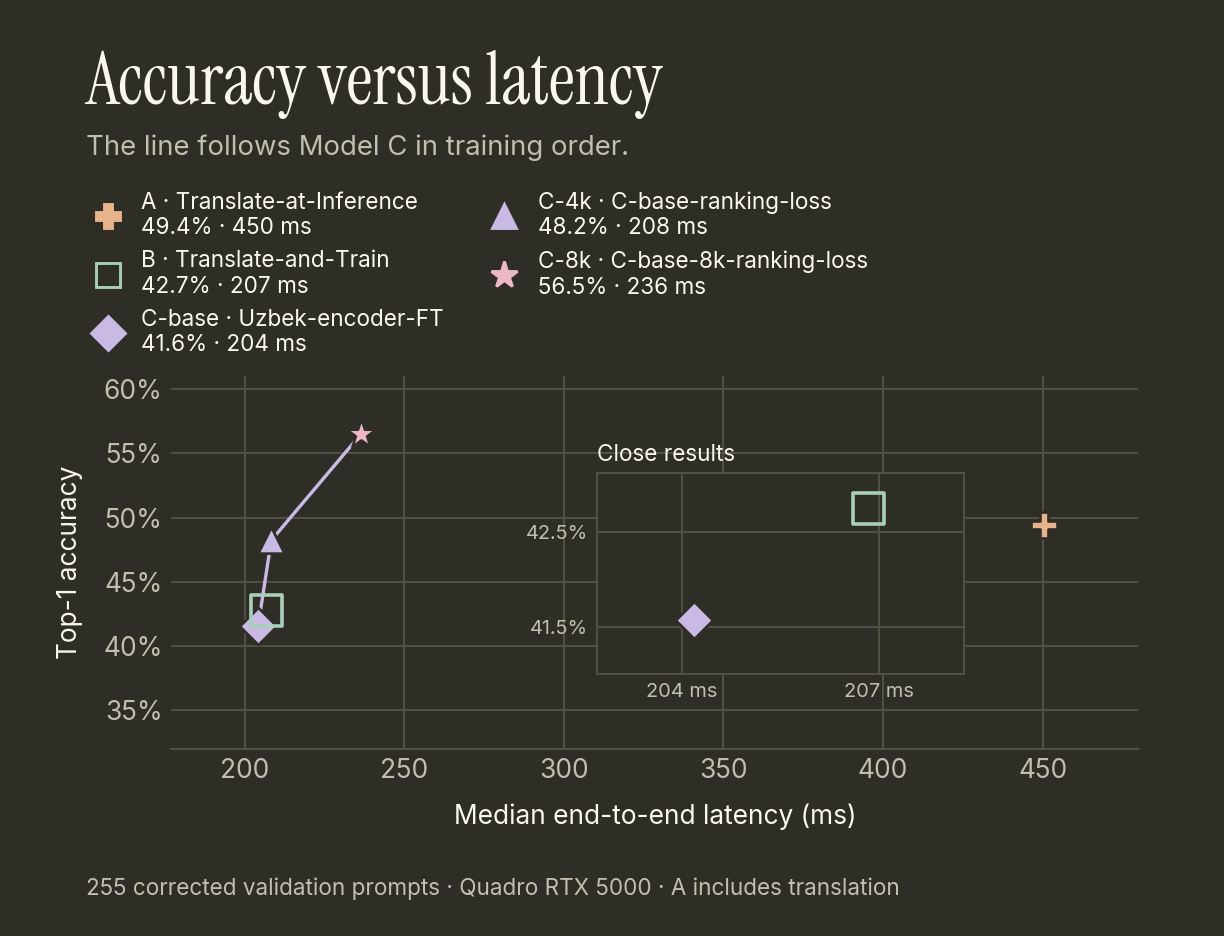
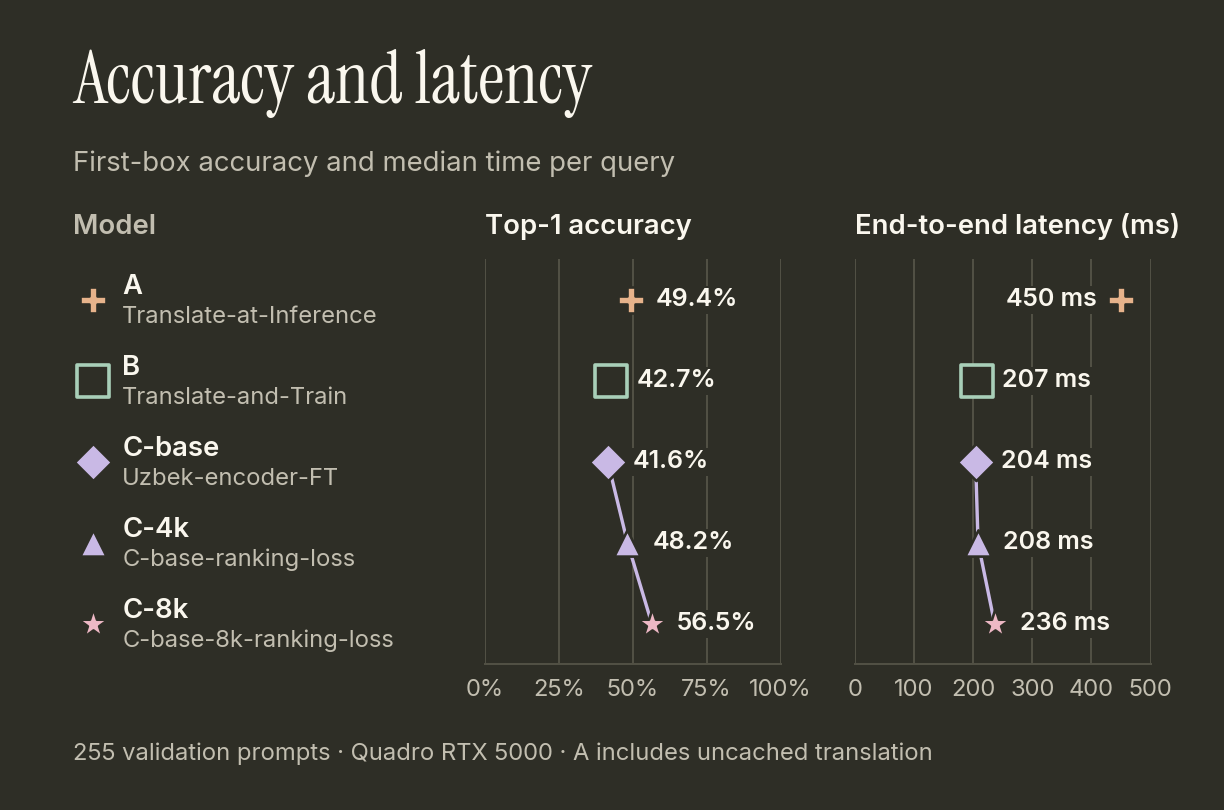
upd

diff --git a/frontend/src/ReportsPanel.vue b/frontend/src/ReportsPanel.vue
@@ -23,8 +23,8 @@ const panel = ref(null)
         <p>UzBEye compares inference-time translation with direct Uzbek grounding. All runs use
           the same 255 corrected Uzbek validation prompts for this comparison.</p>
         <figure>
-          <img :src="accuracyLatency" width="1224" height="936"
-               alt="Accuracy versus median latency. A thin line connects C-base, C-4k, and C-8k. An inset separates B and C-base near 205 milliseconds. C-8k scores 56.5% at 236 milliseconds.">
+          <img :src="accuracyLatency" width="1224" height="810"
+               alt="Top-1 accuracy and median latency on aligned model rows. C-8k has the highest accuracy at 56.5% and takes 236 milliseconds per query.">
           <figcaption>Top-1 accuracy counts a match when the first box overlaps the target with IoU ≥ 0.5.
             Latency was measured on a Quadro RTX 5000 and includes uncached translation for A.</figcaption>
         </figure>
@@ -48,8 +48,8 @@ const panel = ref(null)
           C-8k reached 56.5% top-1 and 64.7% top-5
           with more training data and optimizer updates.</p>
         <figure>
-          <img :src="boxRankBreakdown" width="1224" height="990" loading="lazy"
-               alt="C-8k ranked the matching box first on 144 prompts and in the top five on 165 prompts.">
+          <img :src="boxRankBreakdown" width="1224" height="810" loading="lazy"
+               alt="Prompt counts by first matching rank. C-8k has the most rank-one matches at 144. C-base has the most matches in the top five at 211.">
           <figcaption>Each bar counts whether the first matching box was ranked first, ranked second to fifth,
             or absent from the top five.</figcaption>
         </figure>
@@ -58,7 +58,7 @@ const panel = ref(null)
       <section aria-labelledby="training-title">
         <h3 id="training-title">Accuracy across checkpoints</h3>
         <figure>
-          <img :src="trainingRuns" width="1224" height="1134" loading="lazy"
+          <img :src="trainingRuns" width="1224" height="810" loading="lazy"
                alt="Top-1 accuracy and top-5 recall for A, B, C-base, C-4k, and C-8k. A thin line connects the three C variants.">
           <figcaption>Top-5 recall counts a match anywhere among the five highest-ranked boxes.</figcaption>
         </figure>

diff --git a/scripts/plot_validation_results.py b/scripts/plot_validation_results.py
@@ -10,7 +10,6 @@ from fontTools.varLib.instancer import instantiateVariableFont
 matplotlib.use("Agg")
 from matplotlib import pyplot as plt
 from matplotlib import font_manager
-from matplotlib.lines import Line2D
 from matplotlib.patches import Patch
 from matplotlib.ticker import PercentFormatter
 
@@ -58,135 +57,118 @@ def load_fonts(folder):
 
 
 def finish(fig, title_font, title, subtitle, footer, out):
-    fig.text(.07, .947, title, fontproperties=title_font, fontsize=29, va="top")
-    fig.text(.07, .856, subtitle, fontsize=11, color=MUTED, va="top")
-    fig.text(.07, .038, footer, fontsize=9, color=MUTED, va="bottom")
+    fig.text(.06, .94, title, fontproperties=title_font, fontsize=29, va="top")
+    fig.text(.06, .814, subtitle, fontsize=11, color=MUTED, va="top")
+    fig.text(.06, .055, footer, fontsize=9.5, color=MUTED, va="bottom")
     fig.savefig(out, dpi=180, facecolor=PAPER)
     plt.close(fig)
 
 
-def model_legend(fig, labels=None):
-    handles = []
-    for key in BENCHMARK_RUNS:
-        name, color, marker = VARIANTS[key]
-        hollow = key == "B-corrected"
-        handles.append(Line2D([], [], linestyle="none", marker=marker,
-                              markersize=11 if marker == "*" else 9.5,
-                              markerfacecolor="none" if hollow else color, markeredgewidth=1.15,
-                              markeredgecolor=color, label=labels[key] if labels else name))
-    fig.legend(handles=handles, loc="upper left", bbox_to_anchor=(.053, .817), ncol=2,
-               frameon=False, fontsize=9, columnspacing=1.7, handletextpad=.48)
-
-
-def mark_run(ax, key, x, y, **kwargs):
+def mark_run(ax, key, x, y):
     _, color, marker = VARIANTS[key]
     hollow = key == "B-corrected"
     size = 154 if marker == "*" or hollow else 110
-    ax.scatter(x, y, marker=marker, s=size, facecolor="none" if hollow else color,
+    ax.scatter(x, y, marker=marker, s=size, facecolor=PAPER if hollow else color,
                edgecolor=color if hollow else PAPER, linewidth=1.45 if hollow else 1.05,
-               zorder=4 if hollow else 3, **kwargs)
+               zorder=3)
+
+
+def chart_layout(*widths):
+    fig = plt.figure(figsize=(6.8, 4.5))
+    grid = fig.add_gridspec(1, len(widths) + 1, width_ratios=(1.14, *widths),
+                            left=.06, right=.94, bottom=.18, top=.68, wspace=.24)
+    key_ax = fig.add_subplot(grid[0])
+    key_ax.set(xlim=(0, 1), ylim=(len(BENCHMARK_RUNS) - .5, -.5))
+    key_ax.set_axis_off()
+    key_ax.set_title("Model", loc="left", fontsize=11, fontweight=600, color=MUTED, pad=10)
+    for y, key in enumerate(BENCHMARK_RUNS):
+        mark_run(key_ax, key, .058, y)
+        name, method = VARIANTS[key][0].split(" · ", 1)
+        key_ax.annotate(name, (.145, y), xytext=(0, 5), textcoords="offset points",
+                        va="center", fontsize=11, fontweight=600)
+        key_ax.annotate(method, (.145, y), xytext=(0, -7), textcoords="offset points",
+                        va="center", fontsize=9.5, color=MUTED)
+
+    axes = [fig.add_subplot(grid[i], sharey=key_ax) for i in range(1, len(widths) + 1)]
+    for ax in axes:
+        ax.set(yticks=[])
+        ax.tick_params(axis="x", pad=6, labelsize=9.5)
+        ax.grid(axis="x")
+    return fig, key_ax, axes
+
+
+def comparison(rows, title_font, out, title, subtitle, footer, measures):
+    fig, _, axes = chart_layout(1, 1)
+    c_positions = [BENCHMARK_RUNS.index(key) for key in C_RUNS]
+    for ax, (field, label, multiplier, ticks) in zip(axes, measures, strict=True):
+        values = [multiplier * rows[key][field] for key in BENCHMARK_RUNS]
+        ax.plot([values[y] for y in c_positions], c_positions, color=LAVENDER,
+                linewidth=C_LINE_WIDTH, solid_capstyle="round", zorder=2)
+
+        for y, (key, value) in enumerate(zip(BENCHMARK_RUNS, values, strict=True)):
+            mark_run(ax, key, value, y)
+            left = value >= .74 * ticks[-1]
+            ax.annotate(f"{value:.1f}%" if multiplier == 100 else f"{value:.0f} ms",
+                        (value, y), xytext=(-10 if left else 10, 0), textcoords="offset points",
+                        ha="right" if left else "left", va="center", fontsize=10,
+                        fontweight=600, bbox={"facecolor": PAPER, "edgecolor": "none", "pad": 1})
+
+        ax.set(xlim=(0, ticks[-1]), xticks=ticks)
+        if multiplier == 100:
+            ax.xaxis.set_major_formatter(PercentFormatter(xmax=100, decimals=0))
+        ax.set_title(label, loc="left", fontsize=11, fontweight=600, pad=10)
+
+    finish(fig, title_font, title, subtitle, footer, out)
 
 
 def tradeoff(rows, title_font, out):
-    fig, ax = plt.subplots(figsize=(6.8, 5.2))
-    fig.subplots_adjust(left=.14, right=.93, bottom=.20, top=.598)
-    c_rows = [rows[key] for key in C_RUNS]
-    ax.plot([row["total_ms_p50"] for row in c_rows],
-            [100 * row["accuracy_50"] for row in c_rows],
-            color=LAVENDER, linewidth=C_LINE_WIDTH, solid_capstyle="round", zorder=2)
-
-    labels = {}
-    for key in BENCHMARK_RUNS:
-        row = rows[key]
-        x, y = row["total_ms_p50"], 100 * row["accuracy_50"]
-        mark_run(ax, key, x, y)
-        labels[key] = f"{VARIANTS[key][0]}\n{y:.1f}% · {x:.0f} ms"
-
-    ax.set(xlim=(177, 480), ylim=(32, 61), yticks=[35, 40, 45, 50, 55, 60],
-           xlabel="Median end-to-end latency (ms)", ylabel="Top-1 accuracy")
-    ax.yaxis.set_major_formatter(PercentFormatter(xmax=100, decimals=0))
-    ax.grid(axis="both")
-    # Zoom in on the two markers that overlap at the full scale.
-    close = ax.inset_axes([.44, .20, .38, .54])
-    close.set(xlim=(202.7, 208.3), ylim=(41.0, 43.12), xticks=[204, 207], yticks=[41.5, 42.5])
-    close.xaxis.set_major_formatter("{x:.0f} ms")
-    close.yaxis.set_major_formatter(PercentFormatter(xmax=100, decimals=1))
-    close.tick_params(labelsize=8)
-    close.grid(axis="both")
-    for spine in close.spines.values():
-        spine.set_visible(True)
-    close.set_title("Close results", loc="left", fontsize=9, pad=5)
-    for key in ("B-corrected", C_RUNS[0]):
-        row = rows[key]
-        mark_run(close, key, row["total_ms_p50"], 100 * row["accuracy_50"])
-
-    model_legend(fig, labels)
-    finish(fig, title_font, "Accuracy versus latency",
-           "The line follows Model C in training order.",
-           "255 corrected validation prompts · Quadro RTX 5000 · A includes translation", out)
+    n = rows[BENCHMARK_RUNS[0]]["n"]
+    comparison(rows, title_font, out, "Accuracy and latency",
+               "First-box accuracy and median time per query",
+               f"{n} validation prompts · Quadro RTX 5000 · A includes uncached translation",
+               (("accuracy_50", "Top-1 accuracy", 100, [0, 25, 50, 75, 100]),
+                ("total_ms_p50", "End-to-end latency (ms)", 1, [0, 100, 200, 300, 400, 500])))
 
 
 def training_runs(rows, title_font, out):
-    fig, axes = plt.subplots(2, 1, figsize=(6.8, 6.3), sharex=True)
-    fig.subplots_adjust(left=.14, right=.94, bottom=.17, top=.659, hspace=.58)
-    measures = [
-        ("accuracy_50", "Top-1 accuracy", (32, 63), [35, 45, 55]),
-        ("recall_5", "Top-5 recall", (49, 92), [55, 65, 75, 85]),
-    ]
-    c_start = BENCHMARK_RUNS.index(C_RUNS[0])
-    for ax, (field, label, limits, ticks) in zip(axes, measures, strict=True):
-        values = [100 * rows[key][field] for key in BENCHMARK_RUNS]
-        ax.plot(range(c_start, len(values)), values[c_start:], color=LAVENDER,
-                linewidth=C_LINE_WIDTH, solid_capstyle="round")
-        for x, (key, value) in enumerate(zip(BENCHMARK_RUNS, values, strict=True)):
-            mark_run(ax, key, x, value)
-            ax.annotate(f"{value:.1f}%", (x, value), xytext=(0, 11),
-                        textcoords="offset points", ha="center", color=VARIANTS[key][1], fontsize=10)
-
-        ax.set(ylim=limits, yticks=ticks)
-        ax.set_title(label, loc="left", fontsize=13, fontweight=600, pad=7)
-        ax.yaxis.set_major_formatter(PercentFormatter(xmax=100, decimals=0))
-        ax.grid(axis="y")
-
-    axes[-1].set(xlim=(-.3, 4.3), xticks=range(len(BENCHMARK_RUNS)),
-                 xticklabels=["Inference\ntranslation", "Translate\nand train", "Encoder\nbaseline",
-                              "4k + ranking", "8k + ranking"])
-    model_legend(fig)
-    finish(fig, title_font, "Accuracy across checkpoints",
-           "Each checkpoint was evaluated on the same 255 Uzbek prompts.",
-           "The line connects the three Uzbek encoder checkpoints.", out)
+    n = rows[BENCHMARK_RUNS[0]]["n"]
+    comparison(rows, title_font, out, "Accuracy across checkpoints",
+               f"Same {n} corrected Uzbek validation prompts per model",
+               "The thin lines link the C variants in experiment order. IoU threshold 0.5.",
+               (("accuracy_50", "Top-1 accuracy", 100, [0, 25, 50, 75, 100]),
+                ("recall_5", "Top-5 recall", 100, [0, 25, 50, 75, 100])))
 
 
 def ranking(rows, title_font, out):
-    fig, ax = plt.subplots(figsize=(6.8, 5.5))
-    fig.subplots_adjust(left=.15, right=.94, bottom=.235, top=.65)
+    fig, key_ax, (ax,) = chart_layout(2.15)
     fills = (TEAL, GOLD, "#535147")
-    labels = ("Rank 1", "Ranks 2–5", "No match in top 5")
+    labels = ("Rank 1", "Ranks 2–5", "Outside top 5")
 
     for y, key in enumerate(BENCHMARK_RUNS):
-        mark_run(ax, key, -.061, y, transform=ax.get_yaxis_transform(), clip_on=False)
         row = rows[key]
         n, first = row["n"], row["hits"]
         top_five = round(n * row["recall_5"])
         counts = (first, top_five - first, n - top_five)
         left = 0
         for count, fill, foreground in zip(counts, fills, (PAPER, PAPER, INK), strict=True):
-            ax.barh(y, count, left=left, height=.57, color=fill, edgecolor=PAPER, linewidth=.8)
-            ax.text(left + count / 2, y, str(count), ha="center", va="center", color=foreground,
-                    fontsize=12, fontweight=600)
+            ax.barh(y, count, left=left, height=.6, color=fill, edgecolor=PAPER, linewidth=.8)
+            if count:
+                ax.text(left + count / 2, y, str(count), ha="center", va="center", color=foreground,
+                        fontsize=11, fontweight=600)
             left += count
 
-    ax.set(xlim=(0, next(iter(rows.values()))["n"]), xlabel="Validation prompts", yticks=[])
-    ax.invert_yaxis()
+    n = rows[BENCHMARK_RUNS[0]]["n"]
+    ax.set(xlim=(0, n), xticks=[0, 50, 100, 150, 200, n], xlabel="Validation prompts")
     first, last = (BENCHMARK_RUNS.index(key) for key in (C_RUNS[0], C_RUNS[-1]))
-    ax.plot([-.025, -.025], [first - .24, last + .24], transform=ax.get_yaxis_transform(),
-            color=LAVENDER, linewidth=C_LINE_WIDTH, solid_capstyle="round", clip_on=False)
-    model_legend(fig)
+    key_ax.plot([-.026, -.026], [first - .32, last + .32], color=LAVENDER,
+                linewidth=C_LINE_WIDTH, solid_capstyle="round", clip_on=False)
     handles = [Patch(facecolor=fill, label=label) for fill, label in zip(fills, labels, strict=True)]
-    fig.legend(handles=handles, loc="center", bbox_to_anchor=(.53, .129), ncol=3, frameon=False)
+    ax.legend(handles=handles, loc="lower left", bbox_to_anchor=(0, 1.02), borderaxespad=0,
+              ncol=3, frameon=False, fontsize=10, columnspacing=1.35, handlelength=1,
+              handletextpad=.5)
     finish(fig, title_font, "Rank of the first matching box",
-           "C-8k returns the most rank-one matches.",
-           "255 prompts per run · IoU threshold 0.5", out)
+           "Each prompt is counted once, at its earliest matching rank.",
+           f"{n} prompts per run · IoU threshold 0.5", out)
 
 
 def main():
@@ -210,7 +192,6 @@ def main():
     tradeoff(rows, title_font, out / "accuracy-latency.png")
     training_runs(rows, title_font, out / "training-runs.png")
     ranking(rows, title_font, out / "box-rank-breakdown.png")
-
 
 
 if __name__ == "__main__":

diff --git a/README.md b/README.md
@@ -82,7 +82,7 @@ Latency was measured one prompt at a time on a Quadro RTX 5000 after three warm-
 
 ### First prediction and candidate coverage
 
-![Top-1 accuracy and top-5 recall for five checkpoints. A thin line connects C-base, C-4k, and C-8k.](docs/figures/training-runs.png)
+![Top-1 accuracy and top-5 recall on shared 0–100% scales. C-8k leads top-1 and C-base leads top-5. Thin lines connect the three C variants.](docs/figures/training-runs.png)
 
 On the corrected 4k training set, C-4k returned **17 more first-box matches** and **62 fewer top-five matches** than C-base. The drop in top-five recall matters for an interface that offers alternative boxes. The loss compares one positive with one high-scoring negative. A per-image error analysis would help explain the change in candidate coverage.
 
@@ -92,7 +92,7 @@ With the ranking objective retained, C-8k added **21 first-box matches** and **1
 
 ### Accuracy and latency
 
-![Accuracy versus median latency with distinct markers and a thin line connecting Model C runs. C-8k scores 56.5% at 236 ms.](docs/figures/accuracy-latency.png)
+![Top-1 accuracy and median end-to-end latency on aligned model rows. C-8k scores 56.5% at 236 ms, compared with 49.4% at 450 ms for A.](docs/figures/accuracy-latency.png)
 
 C-8k returned **18 more first-box matches** than uncached translation in this benchmark, with **about 48% lower median query latency**. It also took more work to train. The logged training run lasted about **4.32 hours**, compared with **2.26 hours** for the 4k ranking run. These values separate the upfront training cost from the per-query latency.
 
